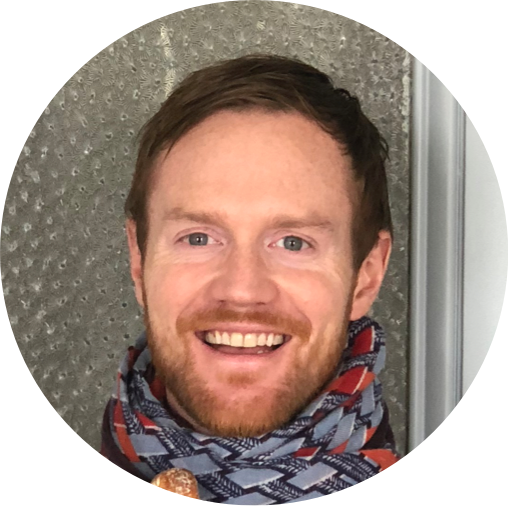
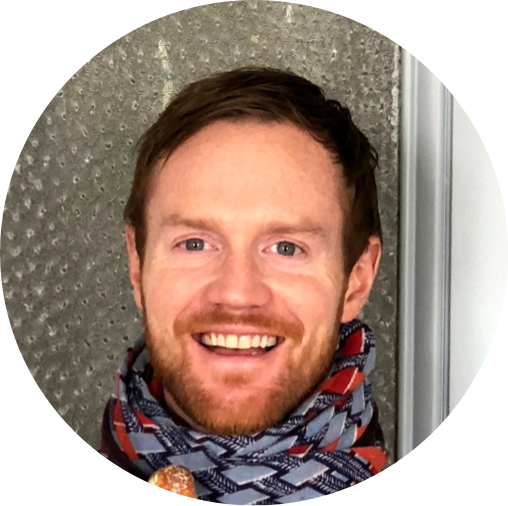
Change the photo on the about page

diff --git a/site/content/about.md b/site/content/about.md
@@ -5,6 +5,7 @@ meta = "false"
 menuTitle = "About"
 weight = "10"
 title = "About me"
+image = "/images/blog/josh-dzielak-frisbee.png"
 
 +++
 
@@ -14,7 +15,7 @@ I'm Josh Dzielak a.k.a *dzello*. In both cases, the "dz" is pronounced like the 
 
 A long-time software engineer, I enjoy building tools for developers and finding unique, authentic ways to distribute them. Formerly, I was the Developer Relations Lead at [Algolia](https://algolia.com/), where I helped developers build fast and relevant search experiences. In the past, I've worked at companies like [Keen IO](https://keen.io/) and [Disney](https://github.com/disney), building APIs and helping get them into the hands of thousands of developers.
 
-!["Josh Dzielak programming at his laptop"](/images/josh-dzielak-programming.jpeg)
+{{< title-image >}}
 
 <br>
 
@@ -26,8 +27,8 @@ I believe that developers need specific conditions to do their best work.
 
 # About my life
 
-I was born in Rockford, Illinois, a mid-sized industrial town halfway between Chicago and Madison on Interstate 90. I graduated from the University of Illinois at Urbana-Champaign in 2004 with a degree in Computer Science, but my love of programming had already shifted from deciphering algorithms to crafting web sites. In 2007 I moved out to San Francisco, California and joined my first startup in 2009.
+I was born in Rockford, Illinois, a mid-sized industrial town halfway between Chicago and Madison on Interstate 90. I graduated from the University of Illinois at Urbana-Champaign in 2004 with a degree in Computer Science, but my love of programming had already long shifted from deciphering algorithms to crafting web sites. In 2007 I moved out to San Francisco, California and joined my first startup in 2009.
 
-Today I live in Paris with my wife Estelle. We love to cook, do yoga together and travel to San Francisco to see our friends, especially late in August. We like to accumulate more experiences than things and we carry matching, aesthetically pleasing coffee mugs so we don't have to use disposable cups.
+Today I live in Paris with my wife Estelle. We like to accumulate more experiences than things and we carry matching, aesthetically pleasing coffee mugs so we don't have to use disposable cups. We love to cook, do yoga and travel to San Francisco to see our friends, especially late in August.
 
 !["Josh and Estelle at Burning Man"](/images/josh-estelle-burning-man-2017.jpg)
